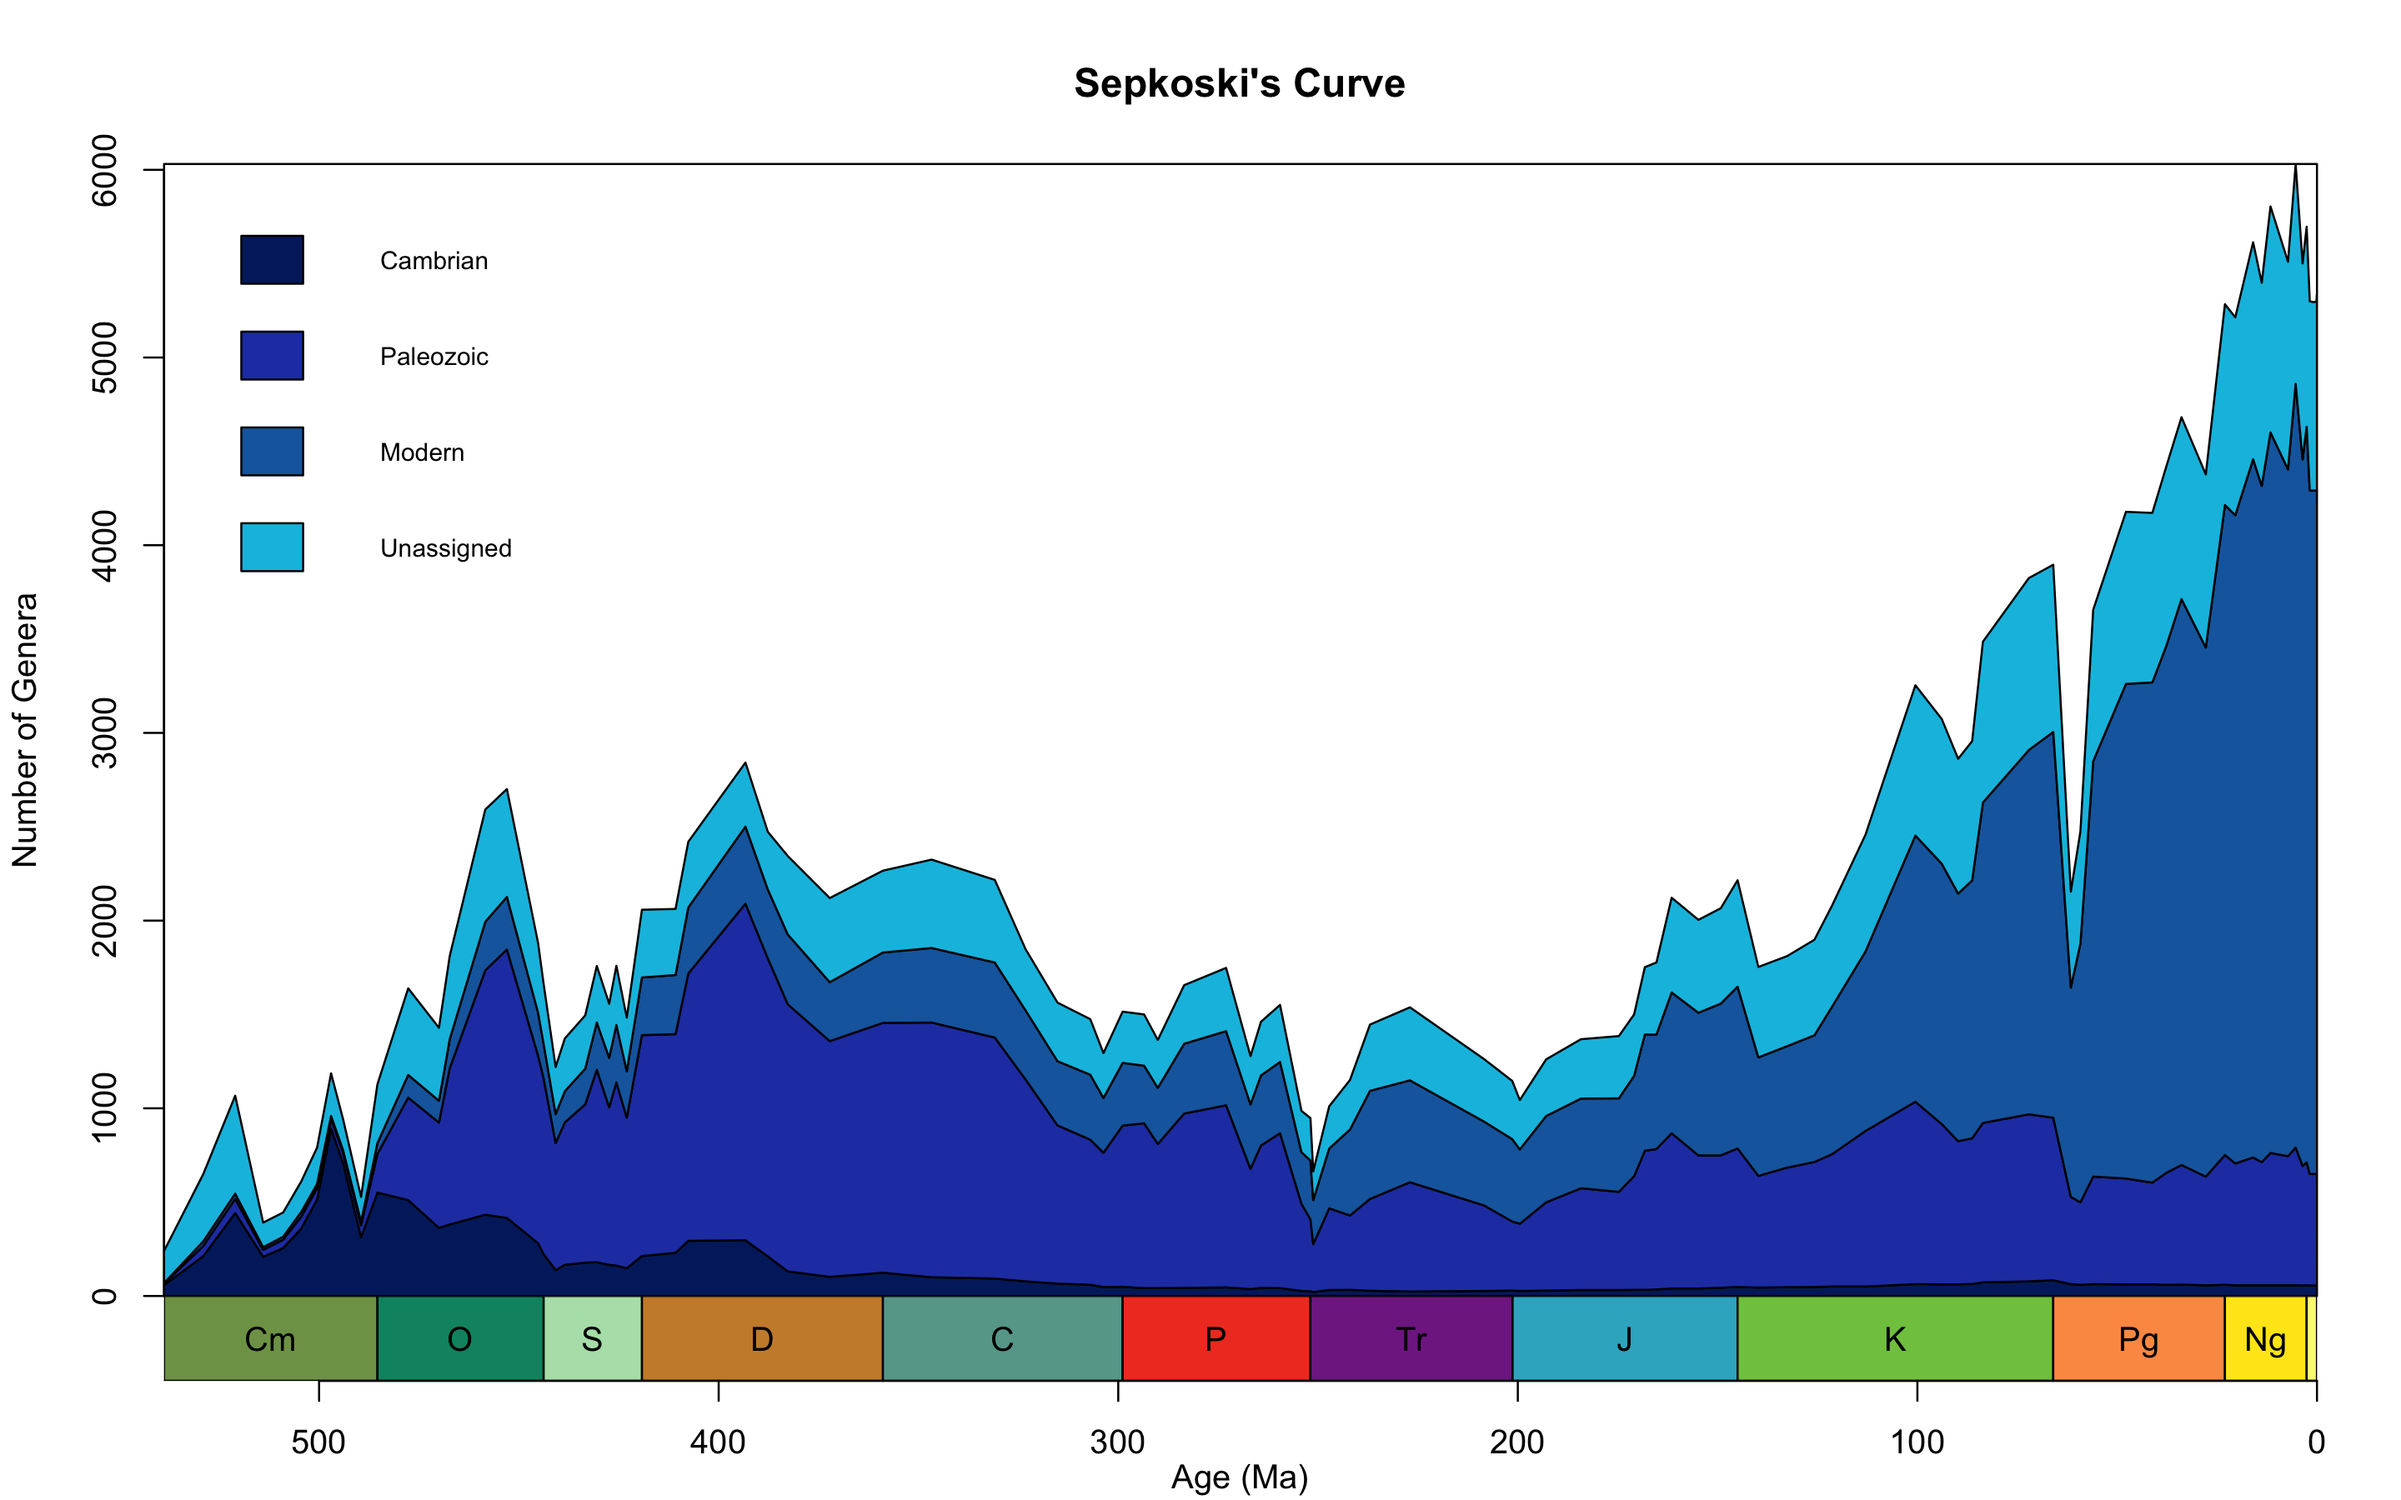
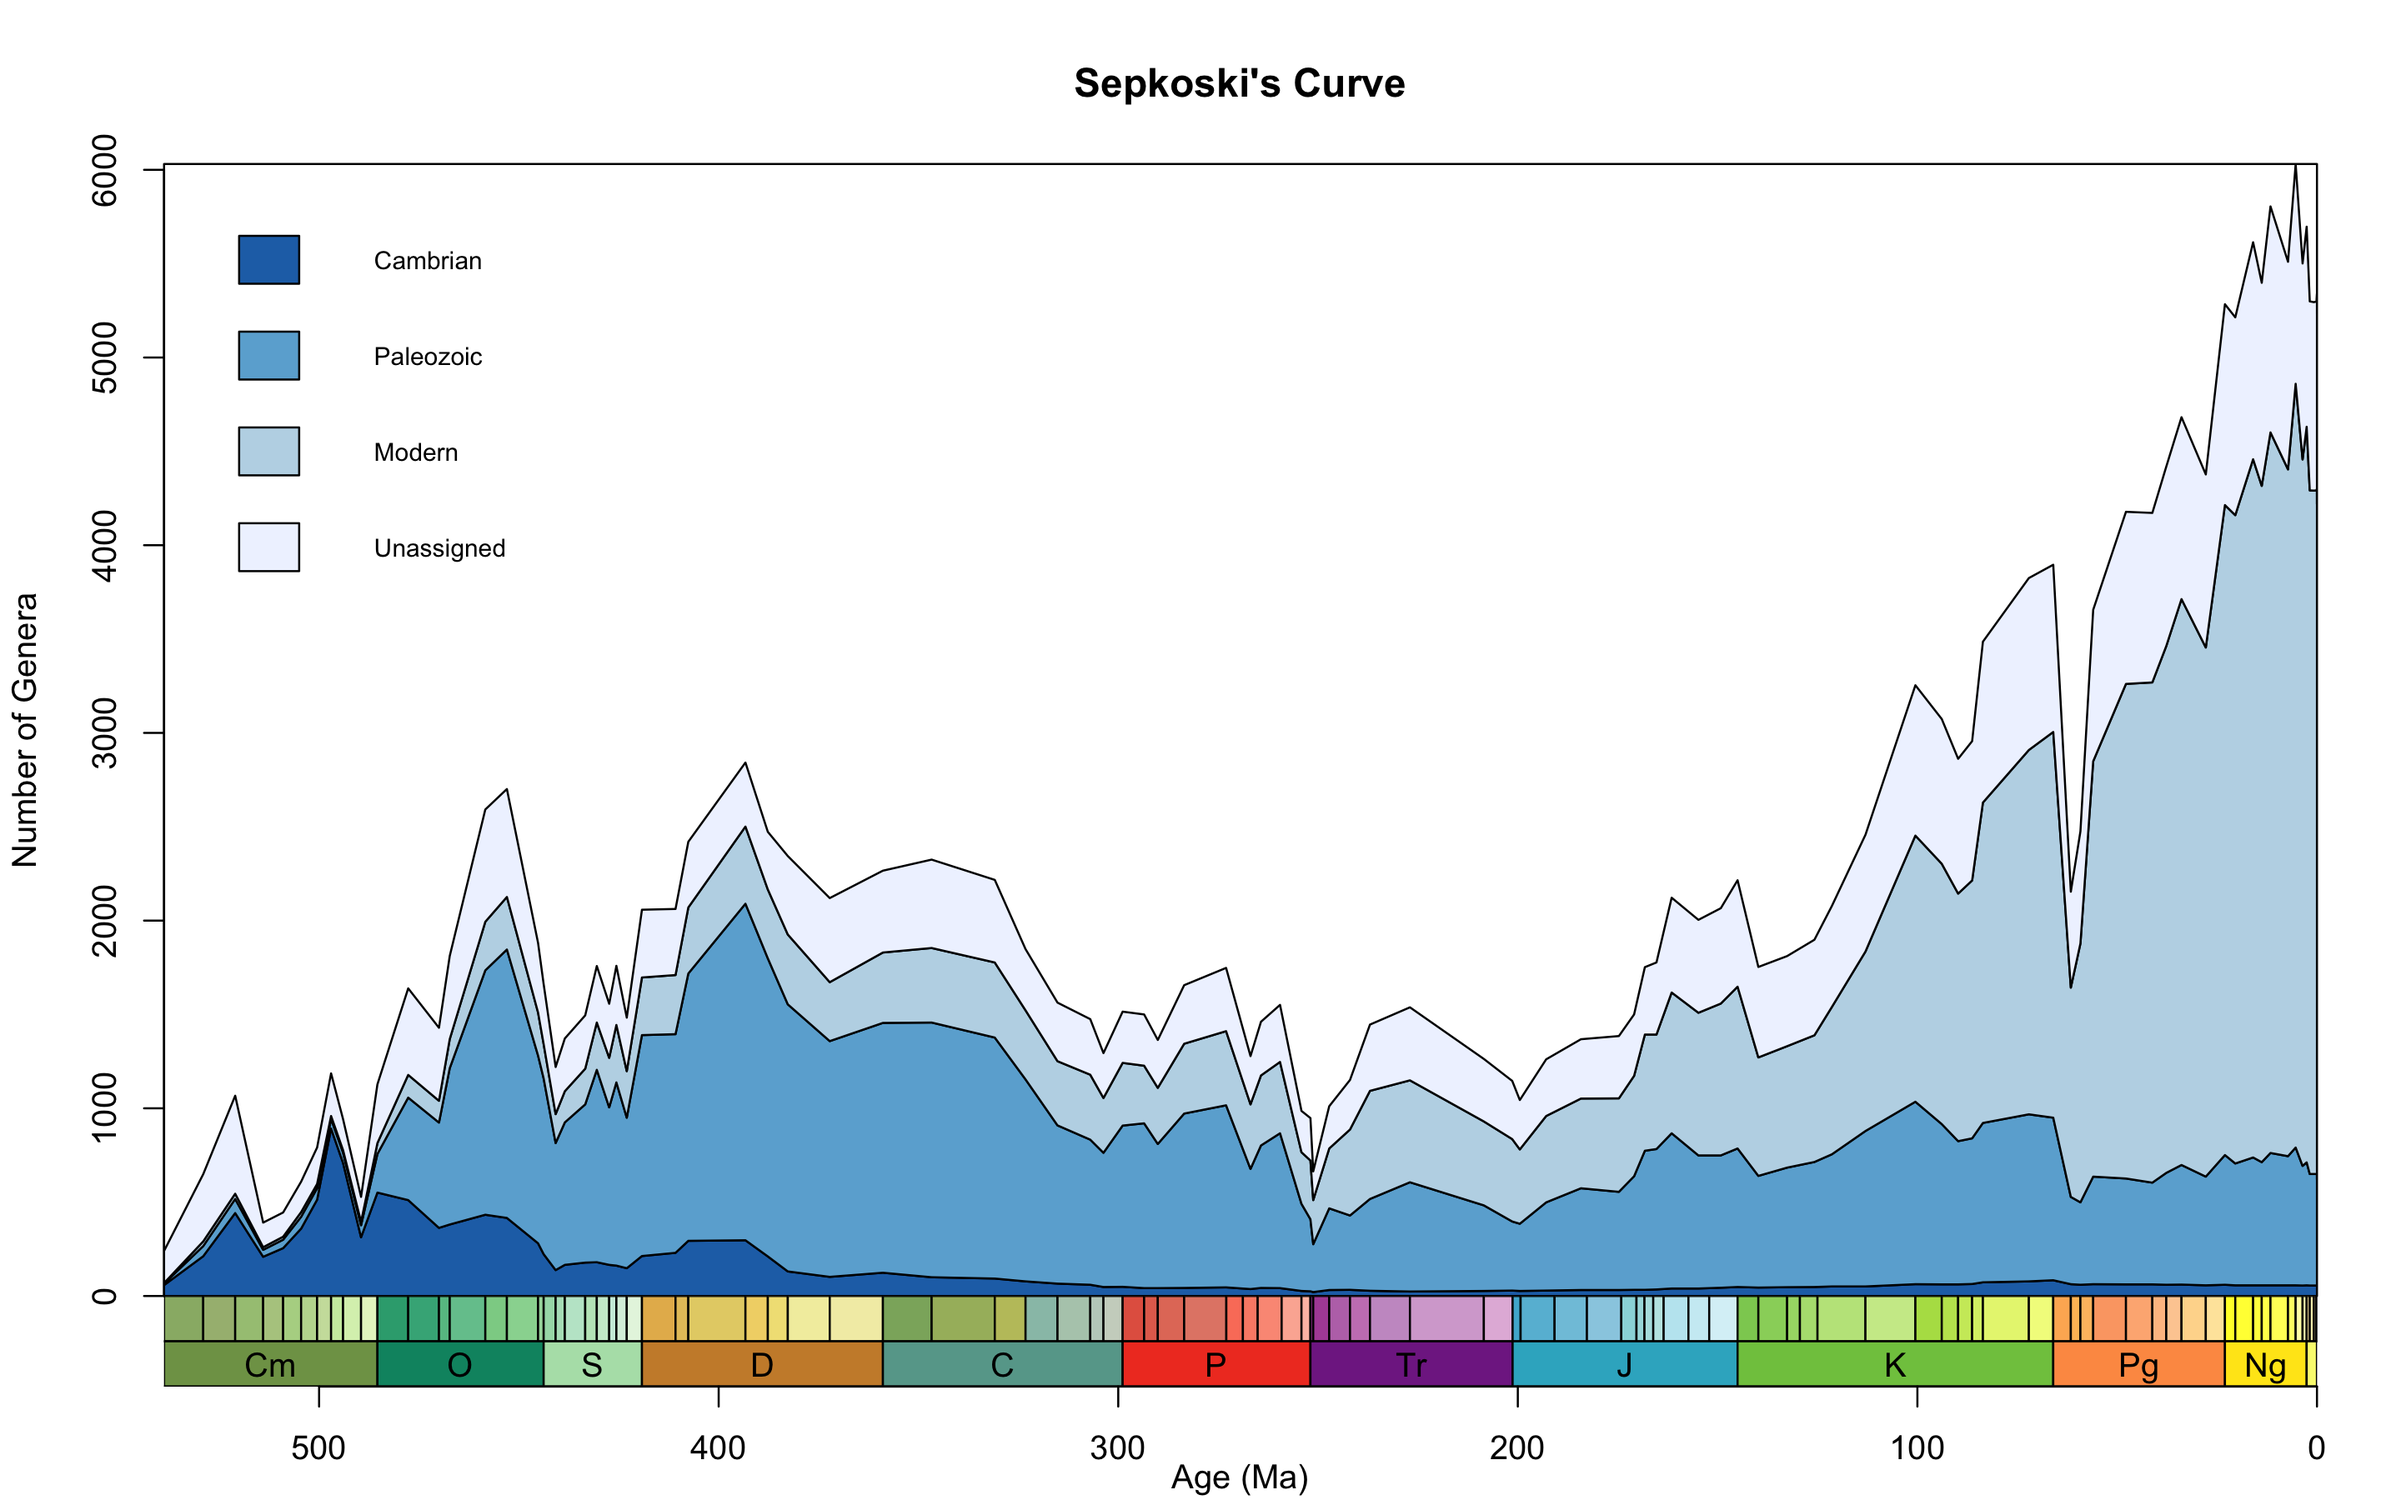
update readme

diff --git a/README.md b/README.md
@@ -70,10 +70,13 @@ Default Phanerozoic plot of Sepkoski's three great evolutionary fauna. Number of
 ```r
 sepkoski_curve_base(plot_args = list(main = "Sepkoski's Curve",
                                      xlab = "Age (Ma)",
-                                     col = c("#03256c",
-                                             "#2541b2",
-                                             "#1768ac", 
-                                             "#06bee1")))
+                                     col = c("#2171b5",
+                                             "#6baed6",
+                                             "#bdd7e7", 
+                                             "#eff3ff")),
+                    axis_args = list(intervals = list("stages", "periods"),
+                                     lab = list(FALSE, TRUE),
+                                     height = 0.04))
 ```
 ![Plot with default arguments](man/figures/sepkoski_curve_base_custom.png)
 Custom Phanerozoic plot of Sepkoski's three great evolutionary fauna. Number of genera are counted per international geological stage bin.
